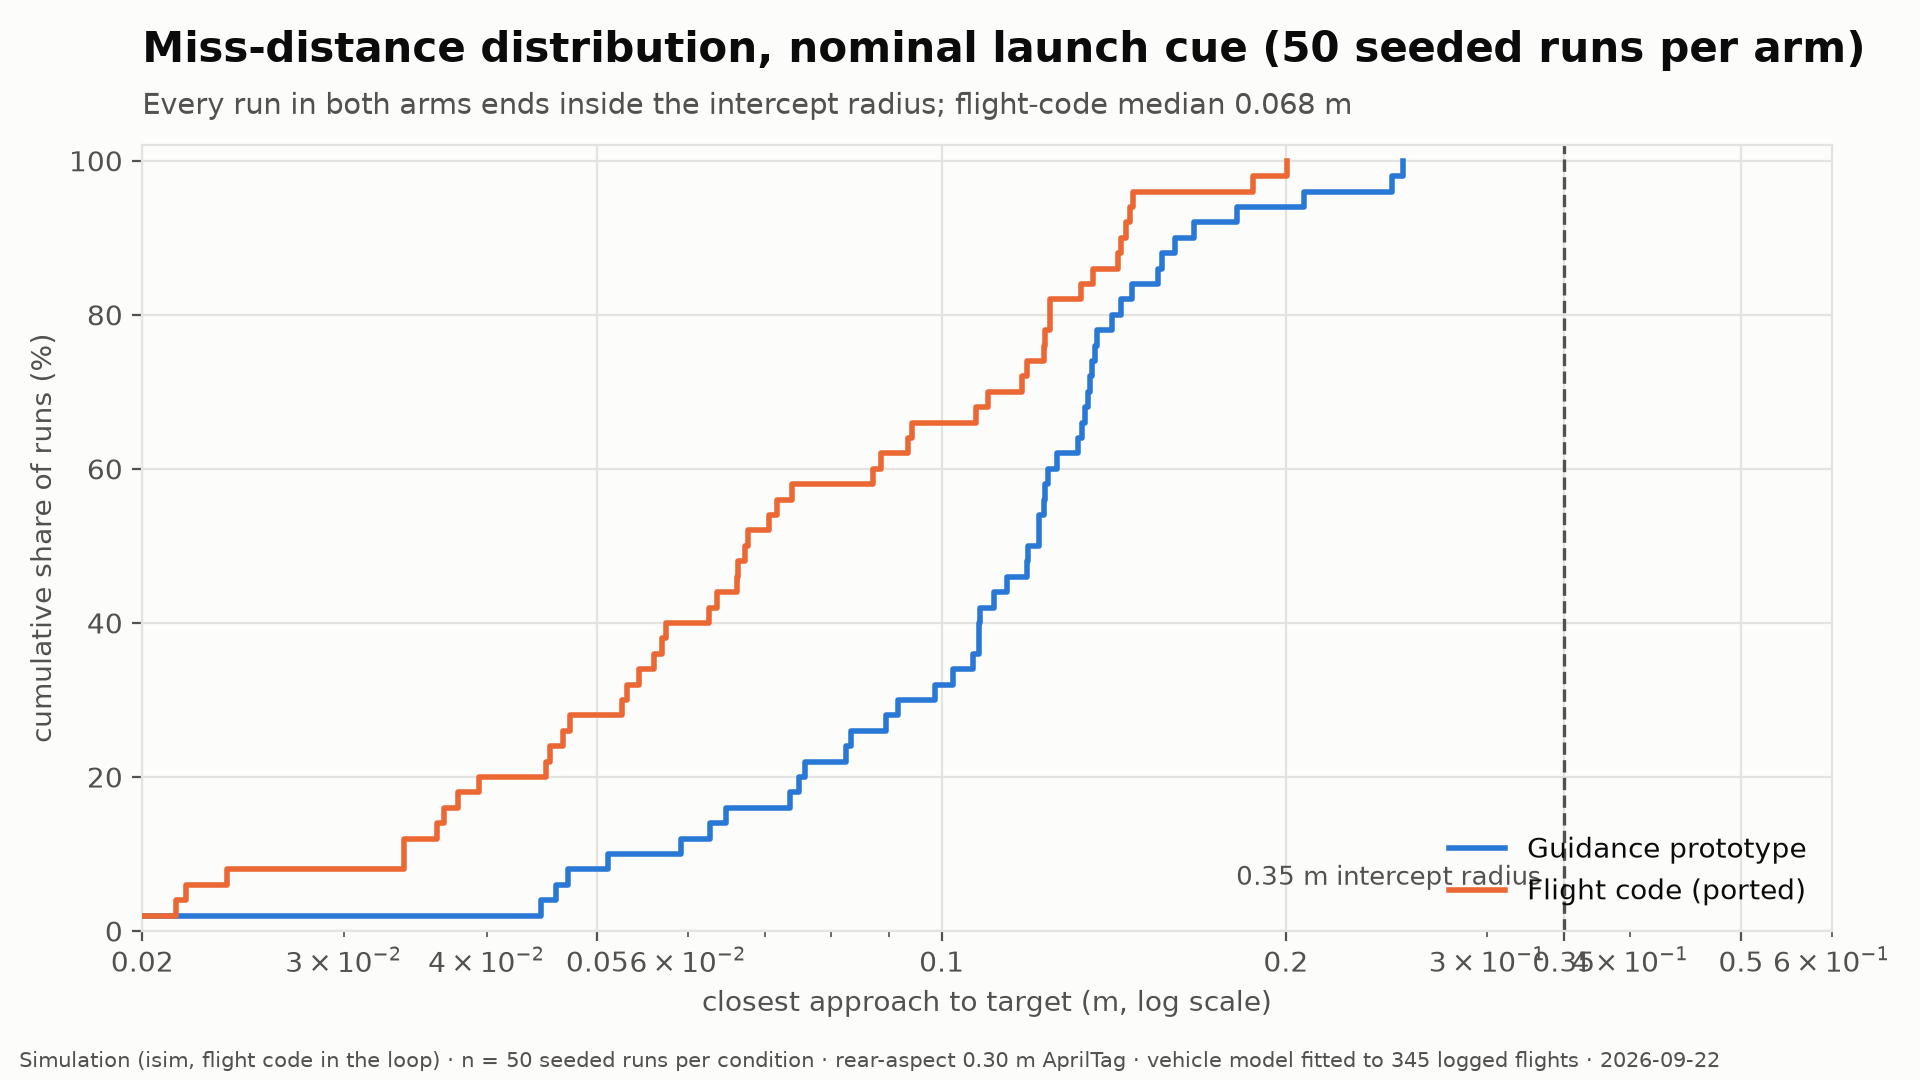
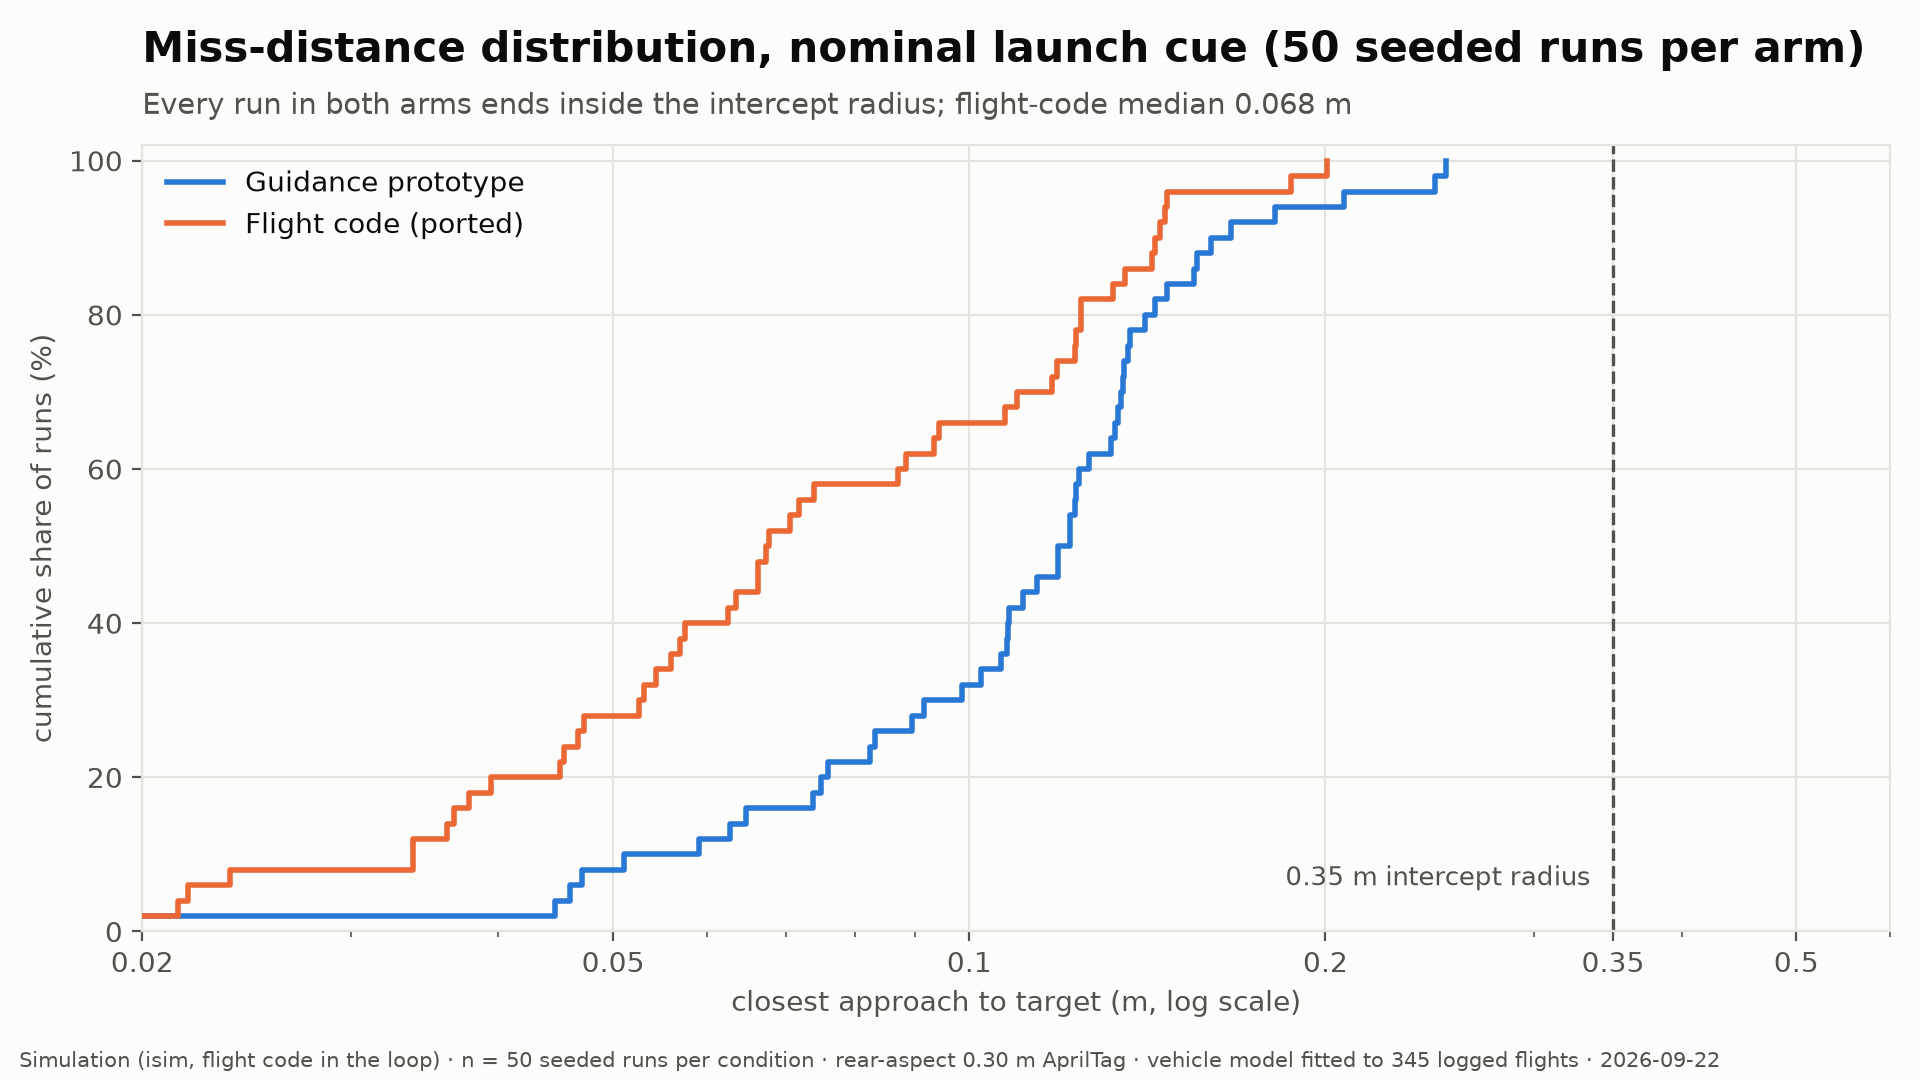
Figure fixes from the Fable media review: fig2 tick/legend collisions, fig3 blind-pass annotation + post-breakoff crop
Review verdicts: fig1 and both MBSE captures ship as-is; fig2 had minor
log-tick label collisions and a legend/annotation overlap; fig3's t~3.7 s
dip (the blind Phase-A pass on the pre-launch belief, first detection at
5.42 s) read as an unexplained failure without annotation, and the panel
ended on the post-breakoff estimator divergence -- both addressed.

Claude-Session: https://claude.ai/code/session_015cvYQRRGxcQFP82RrdkZ6e

diff --git a/scripts/linkedin_media_figures.py b/scripts/linkedin_media_figures.py
@@ -99,6 +99,7 @@ ax.annotate("0.35 m intercept radius", (RAM, 6), xytext=(-8, 0), textcoords="off
 ax.set_xscale("log"); ax.set_xlim(0.02, 0.6)
 ax.set_xticks([0.02, 0.05, 0.1, 0.2, 0.35, 0.5])
 ax.set_xticklabels(["0.02", "0.05", "0.1", "0.2", "0.35", "0.5"])
+ax.xaxis.set_minor_formatter(matplotlib.ticker.NullFormatter())
 ax.set_ylim(0, 102)
 ax.set_xlabel("closest approach to target (m, log scale)")
 ax.set_ylabel("cumulative share of runs (%)")
@@ -106,7 +107,7 @@ ax.set_title("Miss-distance distribution, nominal launch cue (50 seeded runs per
              fontsize=15, color=INK, pad=30, loc="left", fontweight="bold")
 ax.text(0, 1.04, "Every run in both arms ends inside the intercept radius; flight-code median 0.068 m",
         transform=ax.transAxes, fontsize=10.5, color=MUTED)
-ax.legend(loc="lower right", frameon=False, fontsize=10)
+ax.legend(loc="upper left", frameon=False, fontsize=10)
 fig.text(0.01, 0.012, prov, fontsize=7.5, color=MUTED)
 fig.tight_layout(rect=(0, 0.03, 1, 1))
 fig.savefig(os.path.join(OUT, "fig2_miss_cdf_nominal.png"))
@@ -119,8 +120,13 @@ t = np.array([float(r["t"]) for r in tr])
 rng = np.array([float(r["range_true_m"]) for r in tr])
 est = np.array([float(r["est_err_m"]) if r["est_err_m"] != "nan" else np.nan for r in tr])
 det = np.array([int(r["det"]) for r in tr]) > 0
-cpa_i = int(np.nanargmin(rng)); cut = min(len(t), cpa_i + 60)
+cpa_i = int(np.nanargmin(rng))
+# crop shortly after CPA: past breakoff the tag is lost and the estimator
+# error legitimately diverges, which would end the figure on its worst number
+cut = min(len(t), int(np.searchsorted(t, 10.0)))
 t, rng, est, det = t[:cut], rng[:cut], est[:cut], det[:cut]
+dip_i = int(np.argmin(rng[: int(np.searchsorted(t, 5.0))]))
+acq_i = int(np.argmax(det))
 
 fig, (a1, a2) = plt.subplots(2, 1, figsize=(9.6, 6.4), dpi=200, sharex=True,
                              height_ratios=[2.1, 1])
@@ -132,6 +138,11 @@ a1.annotate("0.35 m intercept radius", (t[2], RAM), xytext=(0, 5), textcoords="o
 a1.annotate(f"closest approach {np.nanmin(rng):.3f} m", (t[cpa_i], rng[cpa_i]),
             xytext=(-10, 14), textcoords="offset points", ha="right", fontsize=10,
             color=INK, fontweight="bold")
+a1.annotate("blind pass on the launch cue\n(no detections yet)", (t[dip_i], rng[dip_i]),
+            xytext=(0, -30), textcoords="offset points", ha="center", fontsize=9,
+            color=MUTED)
+a1.annotate("camera acquires", (t[acq_i], rng[acq_i]), xytext=(0, 16),
+            textcoords="offset points", ha="center", fontsize=9, color=ORANGE)
 a1.set_yscale("log"); a1.set_ylim(0.05, 25)
 a1.set_yticks([0.1, 0.35, 1, 3, 10]); a1.set_yticklabels(["0.1", "0.35", "1", "3", "10"])
 a1.set_ylabel("range to target (m, log)")
